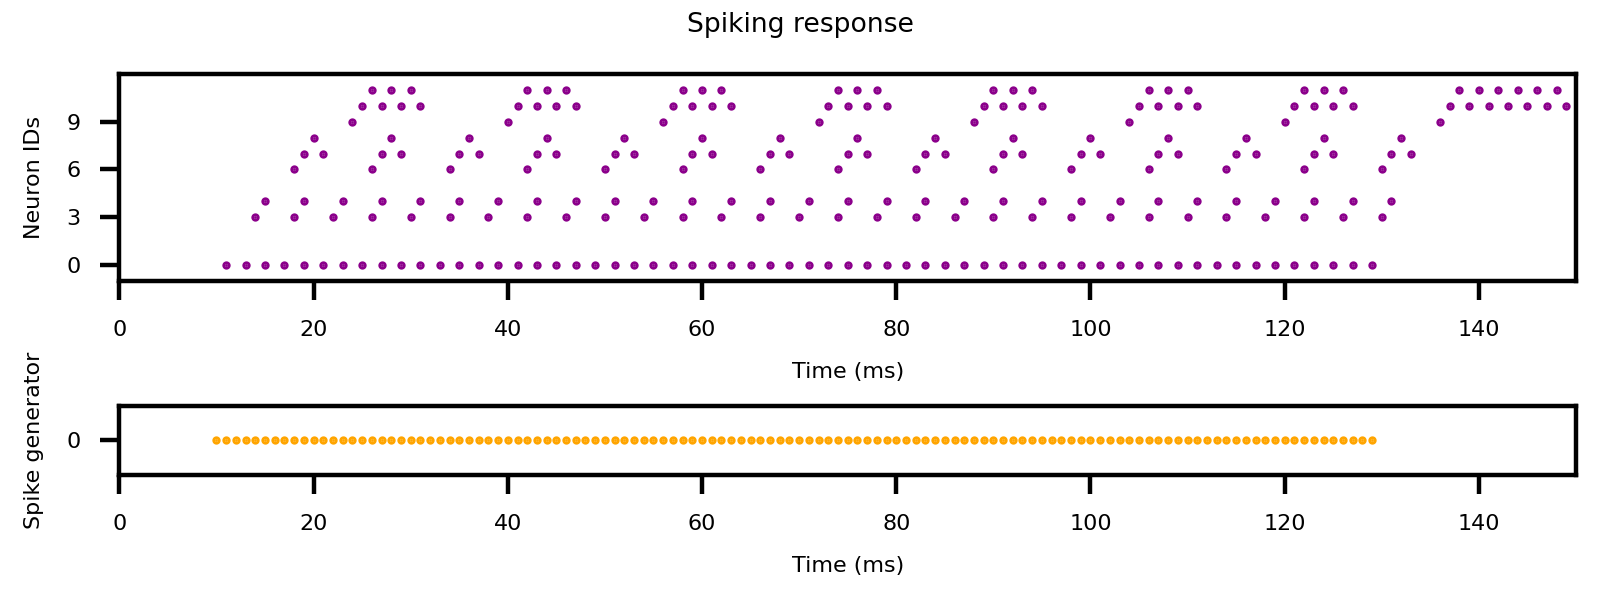
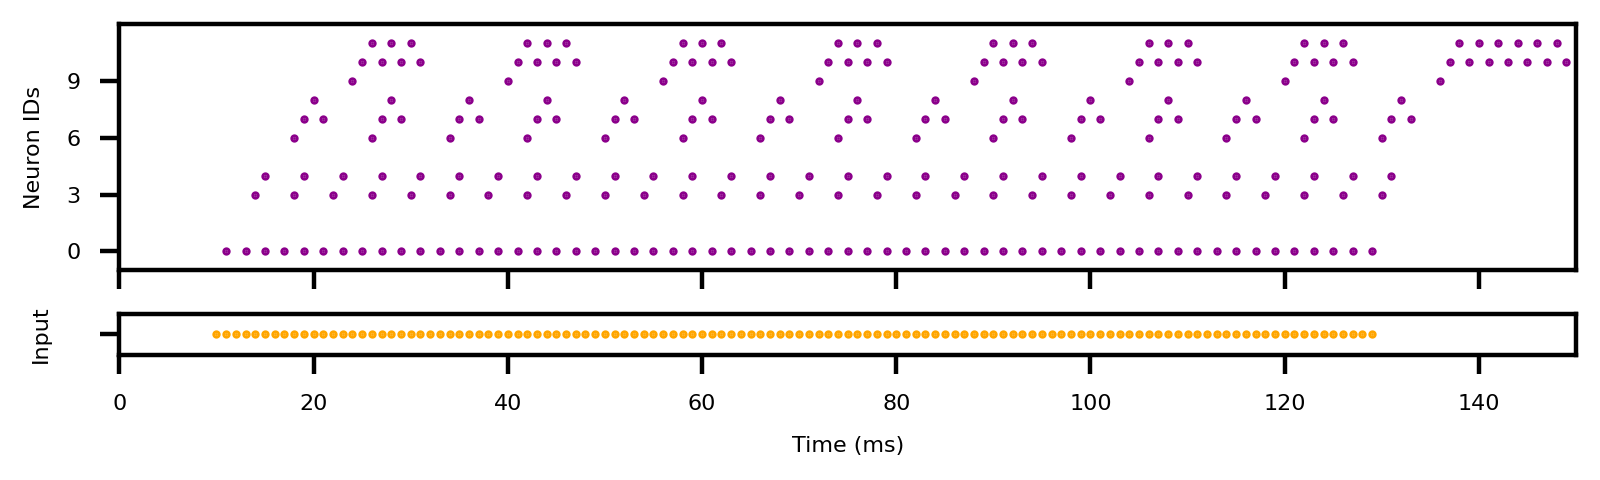
Paper

diff --git a/counter_2_neurons_ecg.py b/counter_2_neurons_ecg.py
@@ -13,7 +13,7 @@ oc_params = {"cm": 1.0, "tau_m": 10.0, "tau_refrac": 75.0, "tau_syn_E": 40.0, "v
 
 if __name__ == '__main__':
     # Read sample
-    n_secs = 5
+    n_secs = 3
     global_params["sim_time"] = float(n_secs * 1000)
     freq = 360
 
@@ -23,7 +23,7 @@ if __name__ == '__main__':
     wfdb.plot_wfdb(record, annotation=ann)'''
 
     # Carga de los datos
-    signals, fields = wfdb.rdsamp('data/232', sampto=n_secs * freq)
+    signals, fields = wfdb.rdsamp('data/117', sampto=int(n_secs * freq))
 
     # Delta modulator
     mlii = signals[:, 0]
@@ -154,18 +154,18 @@ if __name__ == '__main__':
     # --- Saving plot ---
     plt.rcParams['figure.dpi'] = 400
     plt.rcParams['font.size'] = '4'
-    plt.rcParams["figure.figsize"] = (4, 2)
+    plt.rcParams["figure.figsize"] = (4, 1.5)
 
-    fig, axs = plt.subplots(3, 1, gridspec_kw={'height_ratios': [2, 5, 1]})
-    fig.suptitle('Spiking response')
+    fig, axs = plt.subplots(3, 1, gridspec_kw={'height_ratios': [2, 6, 1]}, sharex=True)
+    #fig.suptitle('Spiking response')
 
     # Overflow counter
     axs[0].plot(oc_data[0].spiketrains[0], [0] * len(oc_data[0].spiketrains[0]), 'o', markersize=0.5, color='darkmagenta')
     axs[0].plot(oc_data[1].spiketrains[0], [1] * len(oc_data[1].spiketrains[0]), 'o', markersize=0.5, color='palevioletred')
     axs[0].set_xlim([0, global_params["sim_time"]])
     axs[0].set_ylim([-1, 2])
-    axs[0].set_yticks([0, 1], labels=["OC", "OC adj."])
-    axs[0].set_xlabel('Time (ms)')
+    axs[0].set_yticks([0, 1], labels=["CO", "FO"])  # Counter output, Filter output
+    #axs[0].set_xlabel('Time (ms)')
 
     # Counter neurons
     n_id = 0
@@ -178,16 +178,16 @@ if __name__ == '__main__':
     axs[1].set_xlim([0, global_params["sim_time"]])
     axs[1].set_ylim([-1, 3 * n_bits])
     axs[1].set_yticks(range(0, 3 * n_bits, 3))
-    axs[1].set_xlabel('Time (ms)')
-    axs[1].set_ylabel('Neurons\n(Counter)')
+    #axs[1].set_xlabel('Time (ms)')
+    axs[1].set_ylabel('Neuron IDs')
 
     # Inputs
     axs[2].plot(all_spikes, [0] * len(all_spikes), 'o', markersize=0.5, color='orange')
     axs[2].set_xlim([0, global_params["sim_time"]])
     axs[2].set_ylim([-1, 1])
-    axs[2].set_yticks([0])
+    axs[2].set_yticks([0], labels=[""])
     axs[2].set_xlabel('Time (ms)')
-    axs[2].set_ylabel('Neurons\n(Spike generator)')
+    axs[2].set_ylabel('Input')
 
     plt.tight_layout()
     plt.savefig("experiments/" + filename + '.png', transparent=False, facecolor='white', edgecolor='black')

diff --git a/counter_theoretical.py b/counter_theoretical.py
@@ -27,10 +27,10 @@ if __name__ == '__main__':
     # --- Saving plot ---
     plt.rcParams['figure.dpi'] = 400
     plt.rcParams['font.size'] = '4'
-    plt.rcParams["figure.figsize"] = (4, 1.5)
+    plt.rcParams["figure.figsize"] = (4, 0.9)
 
-    fig, axs = plt.subplots(2, 1, gridspec_kw={'height_ratios': [3, 1]})
-    fig.suptitle('Spiking response')
+    fig, axs = plt.subplots(2, 1, gridspec_kw={'height_ratios': [4, 1]}, sharex=True)
+    #fig.suptitle('Spiking response')
 
     # Spikes
     times = [[] for i in range(n_bits)]
@@ -52,21 +52,21 @@ if __name__ == '__main__':
                 times[4 - j - 1].append(i)
 
     for i in range(len(times)):
-        axs[0].plot(times[i], [3 * i] * len(times[i]), 'o', markersize=0.5, color='orange')
+        axs[0].plot(times[i], [i] * len(times[i]), 'o', markersize=0.5, color='orange')
 
     axs[0].set_xlim([0, global_params["sim_time"]])
-    axs[0].set_ylim([-1, 3 * n_bits])
-    axs[0].set_yticks(range(0, 3 * n_bits, 3))
-    axs[0].set_xlabel('Time (ms)')
-    axs[0].set_ylabel('Neuron IDs')
+    axs[0].set_ylim([-0.5, n_bits - 0.5])
+    axs[0].set_yticks(range(0, n_bits))
+    #axs[0].set_xlabel('Time (ms)')
+    axs[0].set_ylabel('Bit')
 
     # Inputs
     axs[1].plot(count_times, [0] * len(count_times), 'o', markersize=0.5, color='orange')
     axs[1].set_xlim([0, global_params["sim_time"]])
-    axs[1].set_ylim([-1, 1])
-    axs[1].set_yticks([0])
+    axs[1].set_ylim([-0.5, 0.5])
+    axs[1].set_yticks([0], labels=[" "])
     axs[1].set_xlabel('Time (ms)')
-    axs[1].set_ylabel('Spike generator')
+    axs[1].set_ylabel('Input')
 
     plt.tight_layout()
     plt.savefig("experiments/" + filename + '.png', transparent=False, facecolor='white', edgecolor='black')

diff --git a/counter_2_neurons.py b/counter_2_neurons.py
@@ -109,10 +109,10 @@ if __name__ == '__main__':
     # --- Saving plot ---
     plt.rcParams['figure.dpi'] = 400
     plt.rcParams['font.size'] = '4'
-    plt.rcParams["figure.figsize"] = (4, 1.5)
+    plt.rcParams["figure.figsize"] = (4, 1.2)
 
-    fig, axs = plt.subplots(2, 1, gridspec_kw={'height_ratios': [3, 1]})
-    fig.suptitle('Spiking response')
+    fig, axs = plt.subplots(2, 1, gridspec_kw={'height_ratios': [9, 1.5]}, sharex=True)
+    #fig.suptitle('Spiking response')
 
     # Spikes
     n_id = 0
@@ -133,16 +133,16 @@ if __name__ == '__main__':
     axs[0].set_yticks(range(3 * n_bits + 3 * (n_bits - 1)))'''
     axs[0].set_ylim([-1, 3 * n_bits])
     axs[0].set_yticks(range(0, 3 * n_bits, 3))
-    axs[0].set_xlabel('Time (ms)')
+    #axs[0].set_xlabel('Time (ms)')
     axs[0].set_ylabel('Neuron IDs')
 
     # Inputs
     axs[1].plot(count_times, [0] * len(count_times), 'o', markersize=0.5, color='orange')
     axs[1].set_xlim([0, global_params["sim_time"]])
     axs[1].set_ylim([-1, 1])
-    axs[1].set_yticks([0])
+    axs[1].set_yticks([0], labels=[" "])
     axs[1].set_xlabel('Time (ms)')
-    axs[1].set_ylabel('Spike generator')
+    axs[1].set_ylabel('Input')
 
     plt.tight_layout()
     plt.savefig("experiments/" + filename + '.png', transparent=False, facecolor='white', edgecolor='black')

diff --git a/ecg_graphics.py b/ecg_graphics.py
@@ -2,7 +2,7 @@ import wfdb
 import matplotlib.pyplot as plt
 import numpy as np
 
-n_secs = 5
+n_secs = 3
 freq = 360
 
 #record = wfdb.rdrecord('data/212', sampto=n_secs*freq)
@@ -10,7 +10,7 @@ freq = 360
 #wfdb.plot_wfdb(record, annotation = ann)
 
 # Read sample
-signals, fields = wfdb.rdsamp('data/232', sampto=n_secs*freq)
+signals, fields = wfdb.rdsamp('data/117', sampto=int(n_secs*freq))
 
 # Delta modulator
 mlii = signals[:, 0]
@@ -46,12 +46,12 @@ plt.rcParams['figure.dpi'] = 100
 plt.rcParams['font.size'] = '12'
 plt.rcParams["figure.figsize"] = (12, 6)
 
-fig, axs = plt.subplots(2, 1, gridspec_kw={'height_ratios': [3, 1]})
+fig, axs = plt.subplots(2, 1, gridspec_kw={'height_ratios': [3, 1]}, sharex=True)
 fig.suptitle('ECG representation')
 
 axs[0].plot(plot_mlii[:, 0], plot_mlii[:, 1])
 axs[0].set_xlim([0, n_secs])
-axs[0].set_xlabel('Time (s)')
+#axs[0].set_xlabel('Time (s)')
 axs[0].set_ylabel('MLII (mV)')
 
 axs[1].plot(on_spikes, [2] * len(on_spikes), marker='|', linestyle=None, color='teal')
